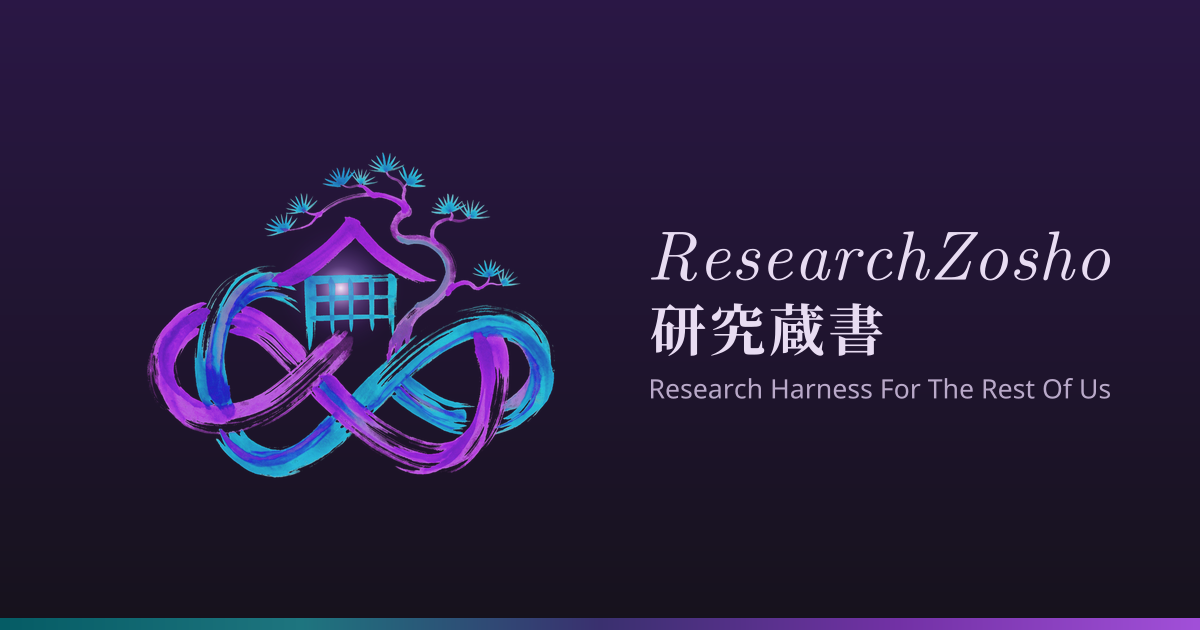
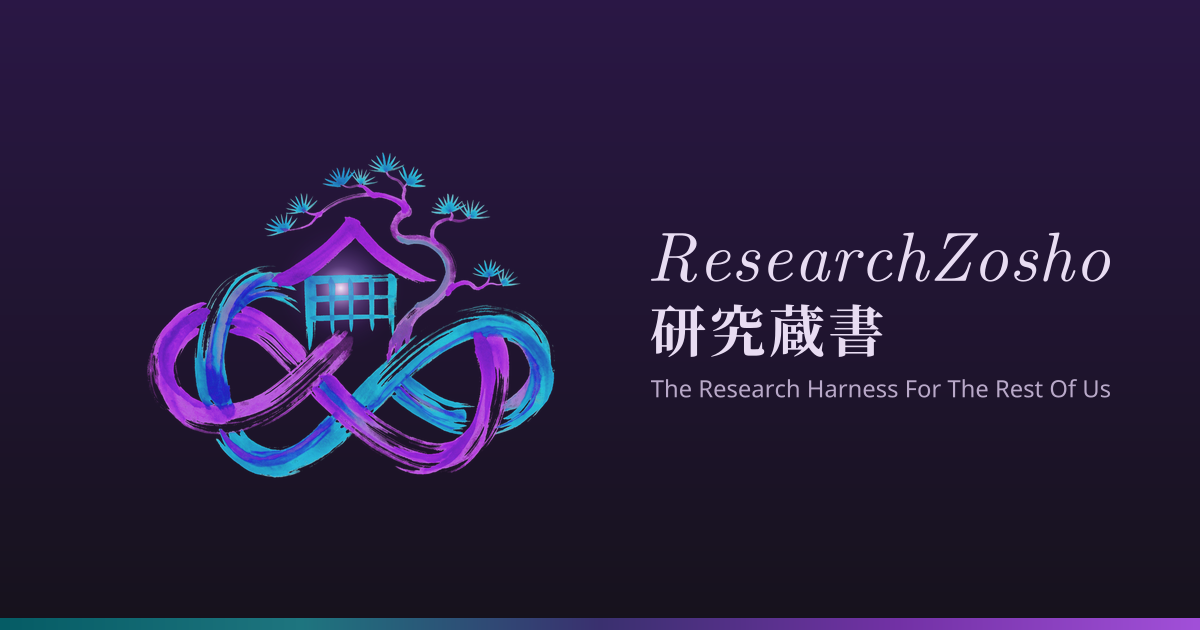
document update

Changed region(s): [[0.5242, 0.3619, 0.925, 0.4524], [0.555, 0.4825, 0.74, 0.573], [0.5242, 0.6032, 0.925, 0.6333]]

diff --git a/librarian/src/main/java/org/researchzosho/Main.java b/librarian/src/main/java/org/researchzosho/Main.java
@@ -3,7 +3,7 @@ package org.researchzosho;
 import org.researchzosho.librarian.LibrarianCli;
 
 /**
- * ResearchZosho — 研究蔵書, the research holdings. "Research Harness For The Rest Of Us."
+ * ResearchZosho — 研究蔵書, the research holdings. "The Research Harness For The Rest Of Us."
  * The Librarian is its voice. This is the {@code researchzosho} command ({@code zosho} for
  * short); {@code codezaiku librarian …} is an alias of it, not the other way round (the operator,
  * 2026-09-05). Its own repo since 2026-09-06.

diff --git a/README.md b/README.md
@@ -5,7 +5,7 @@
 
 # ResearchZosho
 
-研究蔵書, *the research holdings.* Research Harness For The Rest Of Us.
+研究蔵書, *the research holdings.* The Research Harness For The Rest Of Us.
 
 Three people, one problem.
 
@@ -35,24 +35,7 @@ The principle is simple. Nothing counts as valid until it has been reviewed by y
 It runs on your own computer with a model you pick, local or rented. It is free and open source, and
 it is for anyone who needs some reliable research done. This is the research harness for the rest of us.
 
-## How it goes
-
-1. **Ask.** Type a question in the browser, or run `researchzosho research ask "…"`. Not sure how to best
-   to ask it? The "Sharpen it first" request takes your question and gives you a more precise one to submit.
-2. **Read.** The report shows up on the pages when it is done, with its sources.
-3. **Decide.** Its claims land in your inbox. Keep the good ones, dispute the bad ones. A claim
-   does not count until you have reviewed it.
-4. **Use.** `ask` answers from what you kept. The map shows how it connects. Your next question
-   starts from there.
-5. **Check in now and then.** Open questions it could not answer. New subjects it finds. Claims
-   whose source changed.
-
-<picture>
-  <source media="(prefers-color-scheme: dark)" srcset="docs/brand/loop-dark.png">
-  <img alt="The loop: you ask a question. It reads and takes notes. It checks each claim against its source and writes the report. The report arrives and its claims go on the shelves under your subjects. You decide: keep or dispute each claim. You use what you kept: ask, the map, explain. Then the next question. Side steps: open questions it could not answer, to ask again; new subjects when none of yours fit, to accept or drop; and a claim comes back to you when its source changed." src="docs/brand/loop.png" width="860">
-</picture>
-
-→ **[LIBRARIAN_DRIVING.md](docs/LIBRARIAN_DRIVING.md)**: how to use it day to day
+→ **[LIBRARIAN_HOWTOUSE.md](docs/LIBRARIAN_HOWTOUSE.md)**: how to use it day to day
 → **[LIBRARY_PROTOCOL.md](docs/LIBRARY_PROTOCOL.md)**: for programmers, how a program talks to it
 
 ---

diff --git a/docs/LIBRARY_PROTOCOL.md b/docs/LIBRARY_PROTOCOL.md
@@ -2,7 +2,7 @@
 
 This is the document for programmers. It describes how a program talks to a ResearchZosho library:
 what it can ask, what comes back, and what a program can count on staying the same between
-releases. If you only want to use the library yourself, start with [LIBRARIAN_DRIVING.md](LIBRARIAN_DRIVING.md).
+releases. If you only want to use the library yourself, start with [LIBRARIAN_HOWTOUSE.md](LIBRARIAN_HOWTOUSE.md).
 
 **§1–§6 are the normative wire text (§6 names the transports; the daemon extensions in it are marked as such).** Patron runtimes mirror these tables; anything else in this
 document is explanation.
@@ -177,7 +177,7 @@ forms; the jobs listing and `crews/run` are this daemon's own, not every librari
 
 SDKs: `sdk/python` (`researchzosho` on PyPI, standard library only) and `researchzosho-client`
 (Java, Jackson only). Both are transport and types; neither holds library logic. The product is
-**ResearchZosho** (研究蔵書: the research holdings; "Research Harness For The Rest Of Us"); The
+**ResearchZosho** (研究蔵書: the research holdings; "The Research Harness For The Rest Of Us"); The
 Librarian is its voice.
 
 ## 7. Directories and peers

diff --git a/AGENTS.md b/AGENTS.md
@@ -20,7 +20,7 @@ Read these before you change anything:
 1. [README.md](README.md), what it does and who it is for.
 2. [docs/LIBRARY_PROTOCOL.md](docs/LIBRARY_PROTOCOL.md). Sections 1 to 6 are the contract other
    programs rely on. Be careful with changes that could affect others: add, or bump the contract number.
-3. [docs/LIBRARIAN_DRIVING.md](docs/LIBRARIAN_DRIVING.md), how a person uses it day to day.
+3. [docs/LIBRARIAN_HOWTOUSE.md](docs/LIBRARIAN_HOWTOUSE.md), how a person uses it day to day.
 4. [CONTRIBUTING.md](CONTRIBUTING.md), what makes a change easy to take.
 
 ## Build and run

diff --git a/sdk/python/README.md b/sdk/python/README.md
@@ -1,6 +1,6 @@
 # researchzosho (Python)
 
-**ResearchZosho** — 研究蔵書, the research holdings. Research Harness For The Rest Of Us.
+**ResearchZosho** — 研究蔵書, the research holdings. The Research Harness For The Rest Of Us.
 
 A thin client for The Librarian over HTTP — the library protocol, contract 1.0
 (`docs/LIBRARY_PROTOCOL.md`). Transport and types only; the library's one implementation lives
